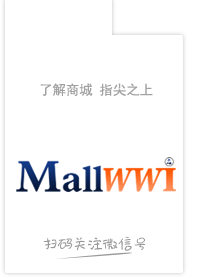
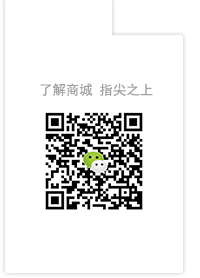
网页顶部修改，app下载代码注释，微信图片修改

Changed region(s): [[0.06, 0.4029, 0.9, 0.777], [0.21, 0.8345, 0.72, 0.9496]]

diff --git a/reads/templates/default/layout/top.php b/reads/templates/default/layout/top.php
@@ -61,7 +61,7 @@ var connect_weixin_appid = "<?php echo C('weixin_appid');?>";
             <a href="<?php echo MALL_SITE_URL;?>" target="_blank">返回首页</a>
             <em class="download"></em>
         </div>
-        <div class="box-xx box_xx-line feiwa-left">|</div>
+        <!--<div class="box-xx box_xx-line feiwa-left">|</div>
         <div class="phone">
             <a href="<?php echo WAP_SITE_URL;?>" target="_blank">移动APP</a>
             <em class="download" ><div class="qrcode"><img src="<?php echo UPLOAD_SITE_URL.DS.ATTACH_COMMON.DS.C('mobile_app');?>"></div>
@@ -74,7 +74,7 @@ var connect_weixin_appid = "<?php echo C('weixin_appid');?>";
           <?php } ?>
                         </div>
        </em>
-        </div>
+        </div>-->
         <div class="box-xx box_xx-line feiwa-left">|</div>
         <div class="weixin">
             <a href="javascript:;" target="_blank">微信号</a>

diff --git a/mall/templates/default/layout/layout_top.php b/mall/templates/default/layout/layout_top.php
@@ -248,7 +248,7 @@ $(function(){
             <a href="<?php echo MALL_SITE_URL;?>" target="_blank">返回首页</a>
             <em class="download"></em>
         </div>
-        <div class="box-xx box_xx-line feiwa-left">|</div>
+       <!-- <div class="box-xx box_xx-line feiwa-left">|</div>
         <div class="phone">
             <a href="<?php echo WAP_SITE_URL;?>" target="_blank">移动APP</a>
             <em class="download" ><div class="qrcode"><img src="<?php echo UPLOAD_SITE_URL.DS.ATTACH_COMMON.DS.C('mobile_app');?>"></div>
@@ -261,7 +261,7 @@ $(function(){
           <?php } ?>
                         </div>
        </em>
-        </div>
+        </div>-->
         <div class="box-xx box_xx-line feiwa-left">|</div>
         <div class="weixin">
             <a href="javascript:;" target="_blank">微信号</a>

diff --git a/member/templates/default/layout/layout_top.php b/member/templates/default/layout/layout_top.php
@@ -249,7 +249,7 @@ $(function(){
             <a href="<?php echo MALL_SITE_URL;?>" target="_blank">返回首页</a>
             <em class="download"></em>
         </div>
-        <div class="box-xx box_xx-line feiwa-left">|</div>
+       <!-- <div class="box-xx box_xx-line feiwa-left">|</div>
         <div class="phone">
             <a href="<?php echo WAP_SITE_URL;?>" target="_blank">移动APP</a>
             <em class="download" ><div class="qrcode"><img src="<?php echo UPLOAD_SITE_URL.DS.ATTACH_COMMON.DS.C('mobile_app');?>"></div>
@@ -262,7 +262,7 @@ $(function(){
           <?php } ?>
                         </div>
        </em>
-        </div>
+        </div>-->
         <div class="box-xx box_xx-line feiwa-left">|</div>
         <div class="weixin">
             <a href="javascript:;" target="_blank">微信号</a>

diff --git a/circle/templates/default/layout/top.php b/circle/templates/default/layout/top.php
@@ -7,7 +7,7 @@
             <a href="<?php echo MALL_SITE_URL;?>" target="_blank">返回首页</a>
             <em class="download"></em>
         </div>
-        <div class="box-xx box_xx-line feiwa-left">|</div>
+        <!--<div class="box-xx box_xx-line feiwa-left">|</div>
         <div class="phone">
             <a href="<?php echo WAP_SITE_URL;?>" target="_blank">移动APP</a>
             <em class="download" ><div class="qrcode"><img src="<?php echo UPLOAD_SITE_URL.DS.ATTACH_COMMON.DS.C('mobile_app');?>"></div>
@@ -20,7 +20,7 @@
           <?php } ?>
                         </div>
        </em>
-        </div>
+        </div>-->
         <div class="box-xx box_xx-line feiwa-left">|</div>
         <div class="weixin">
             <a href="javascript:;" target="_blank">微信号</a>
